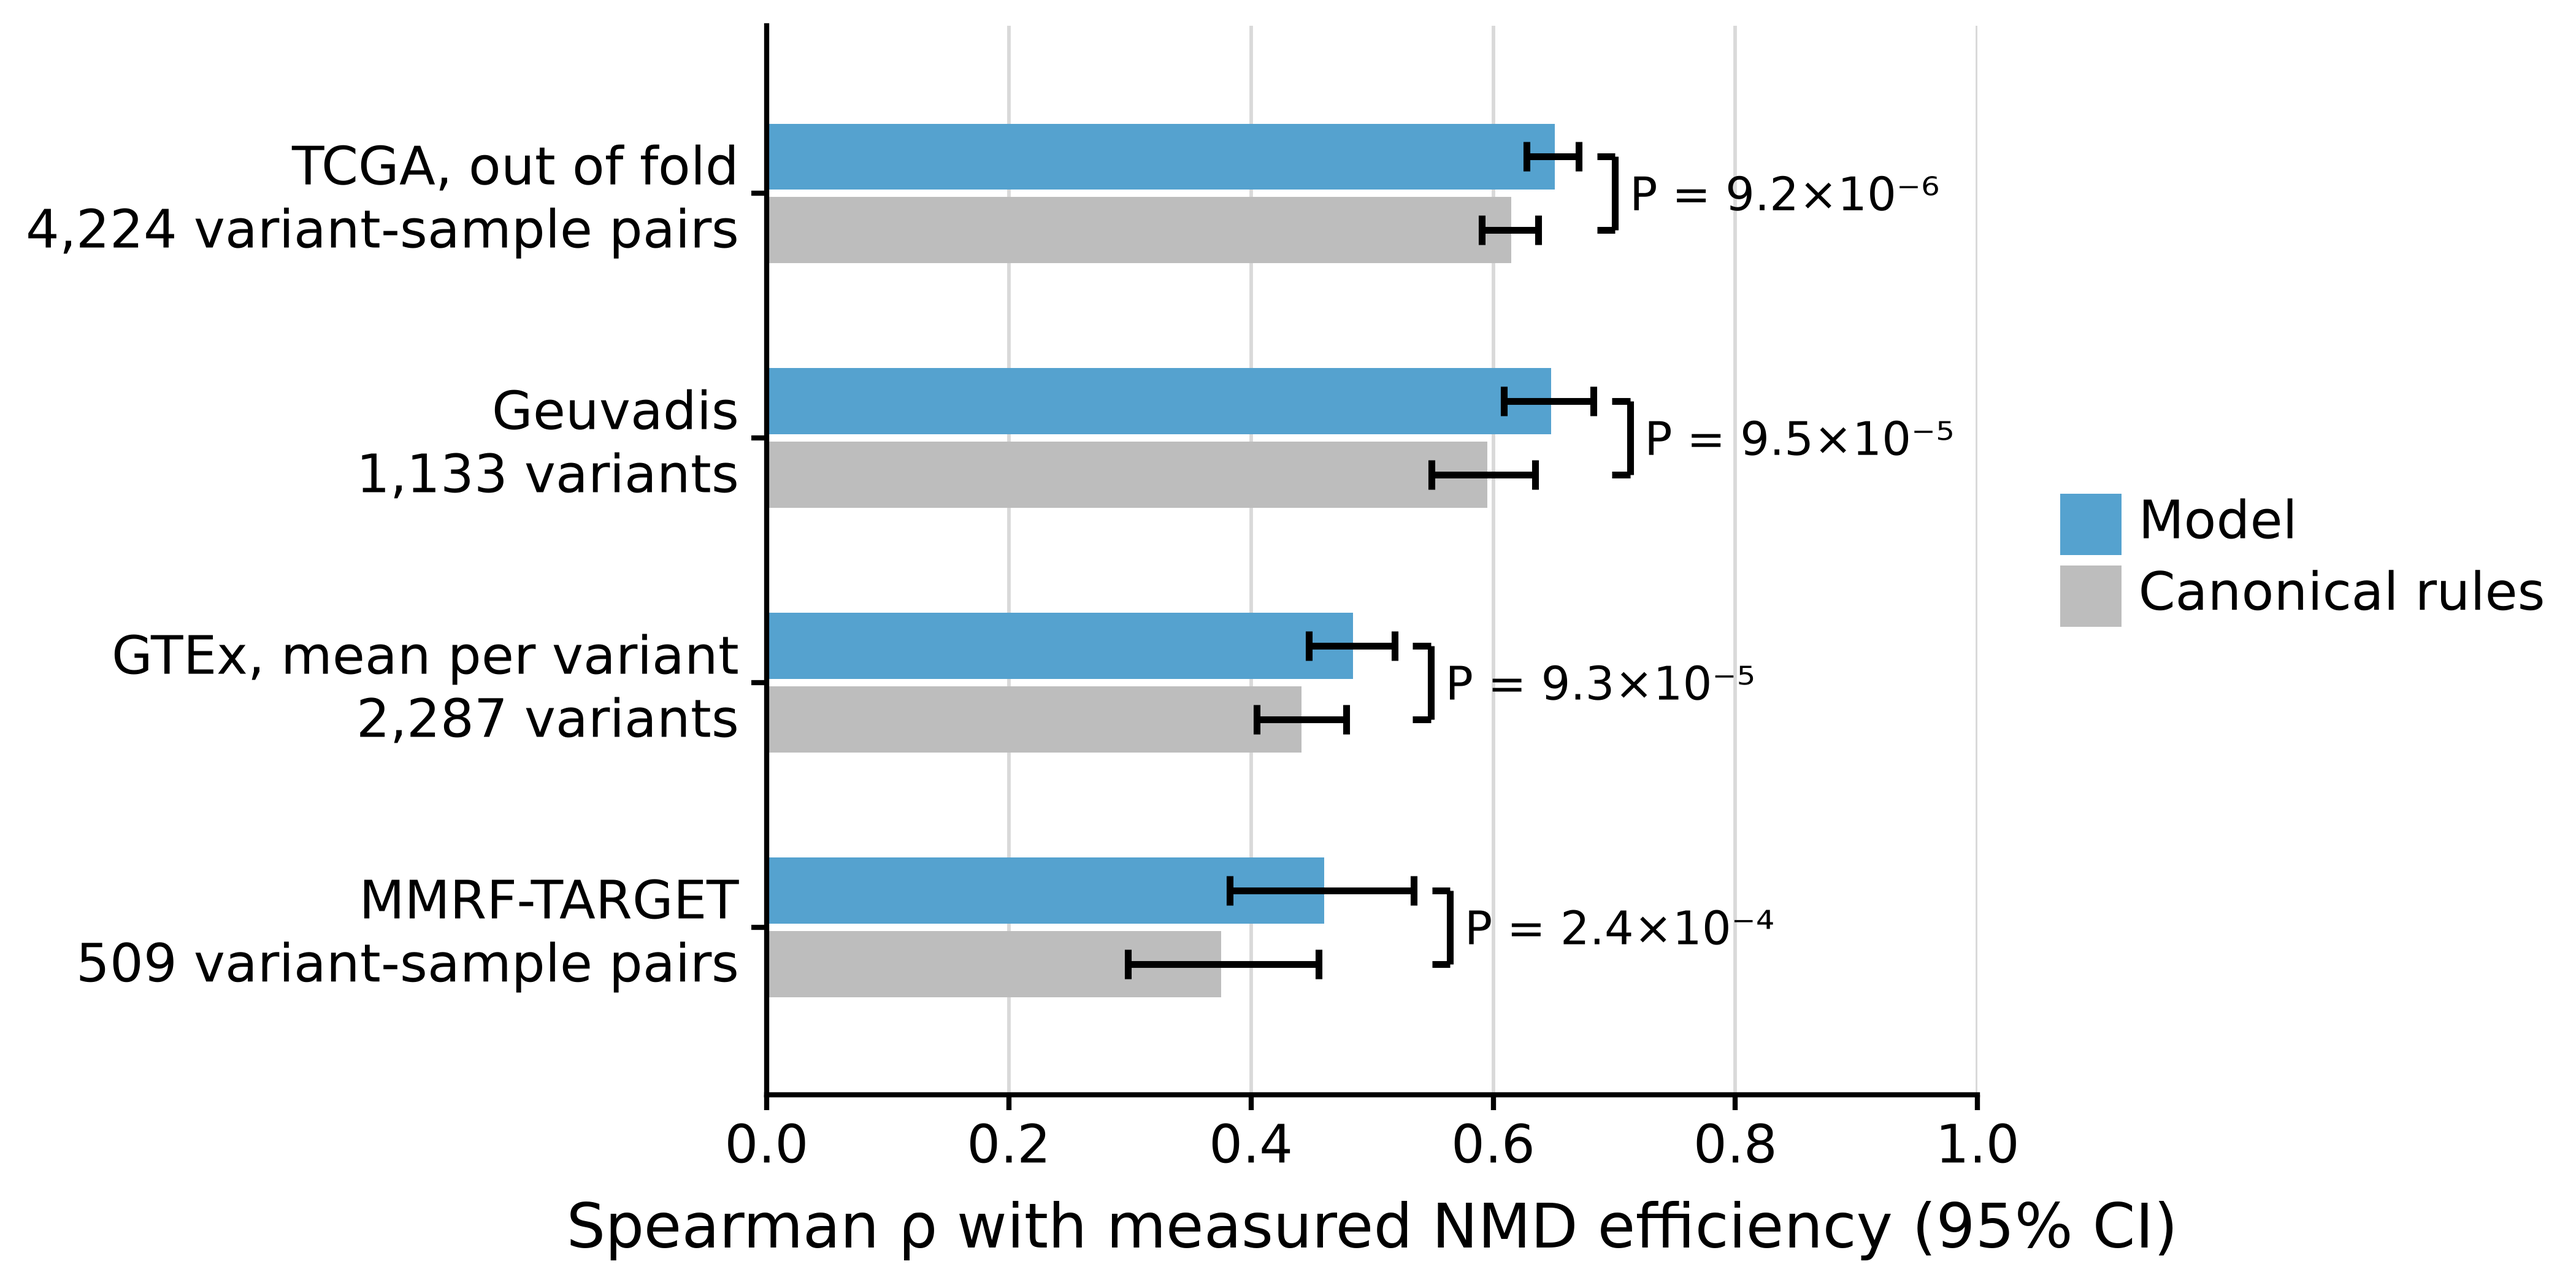
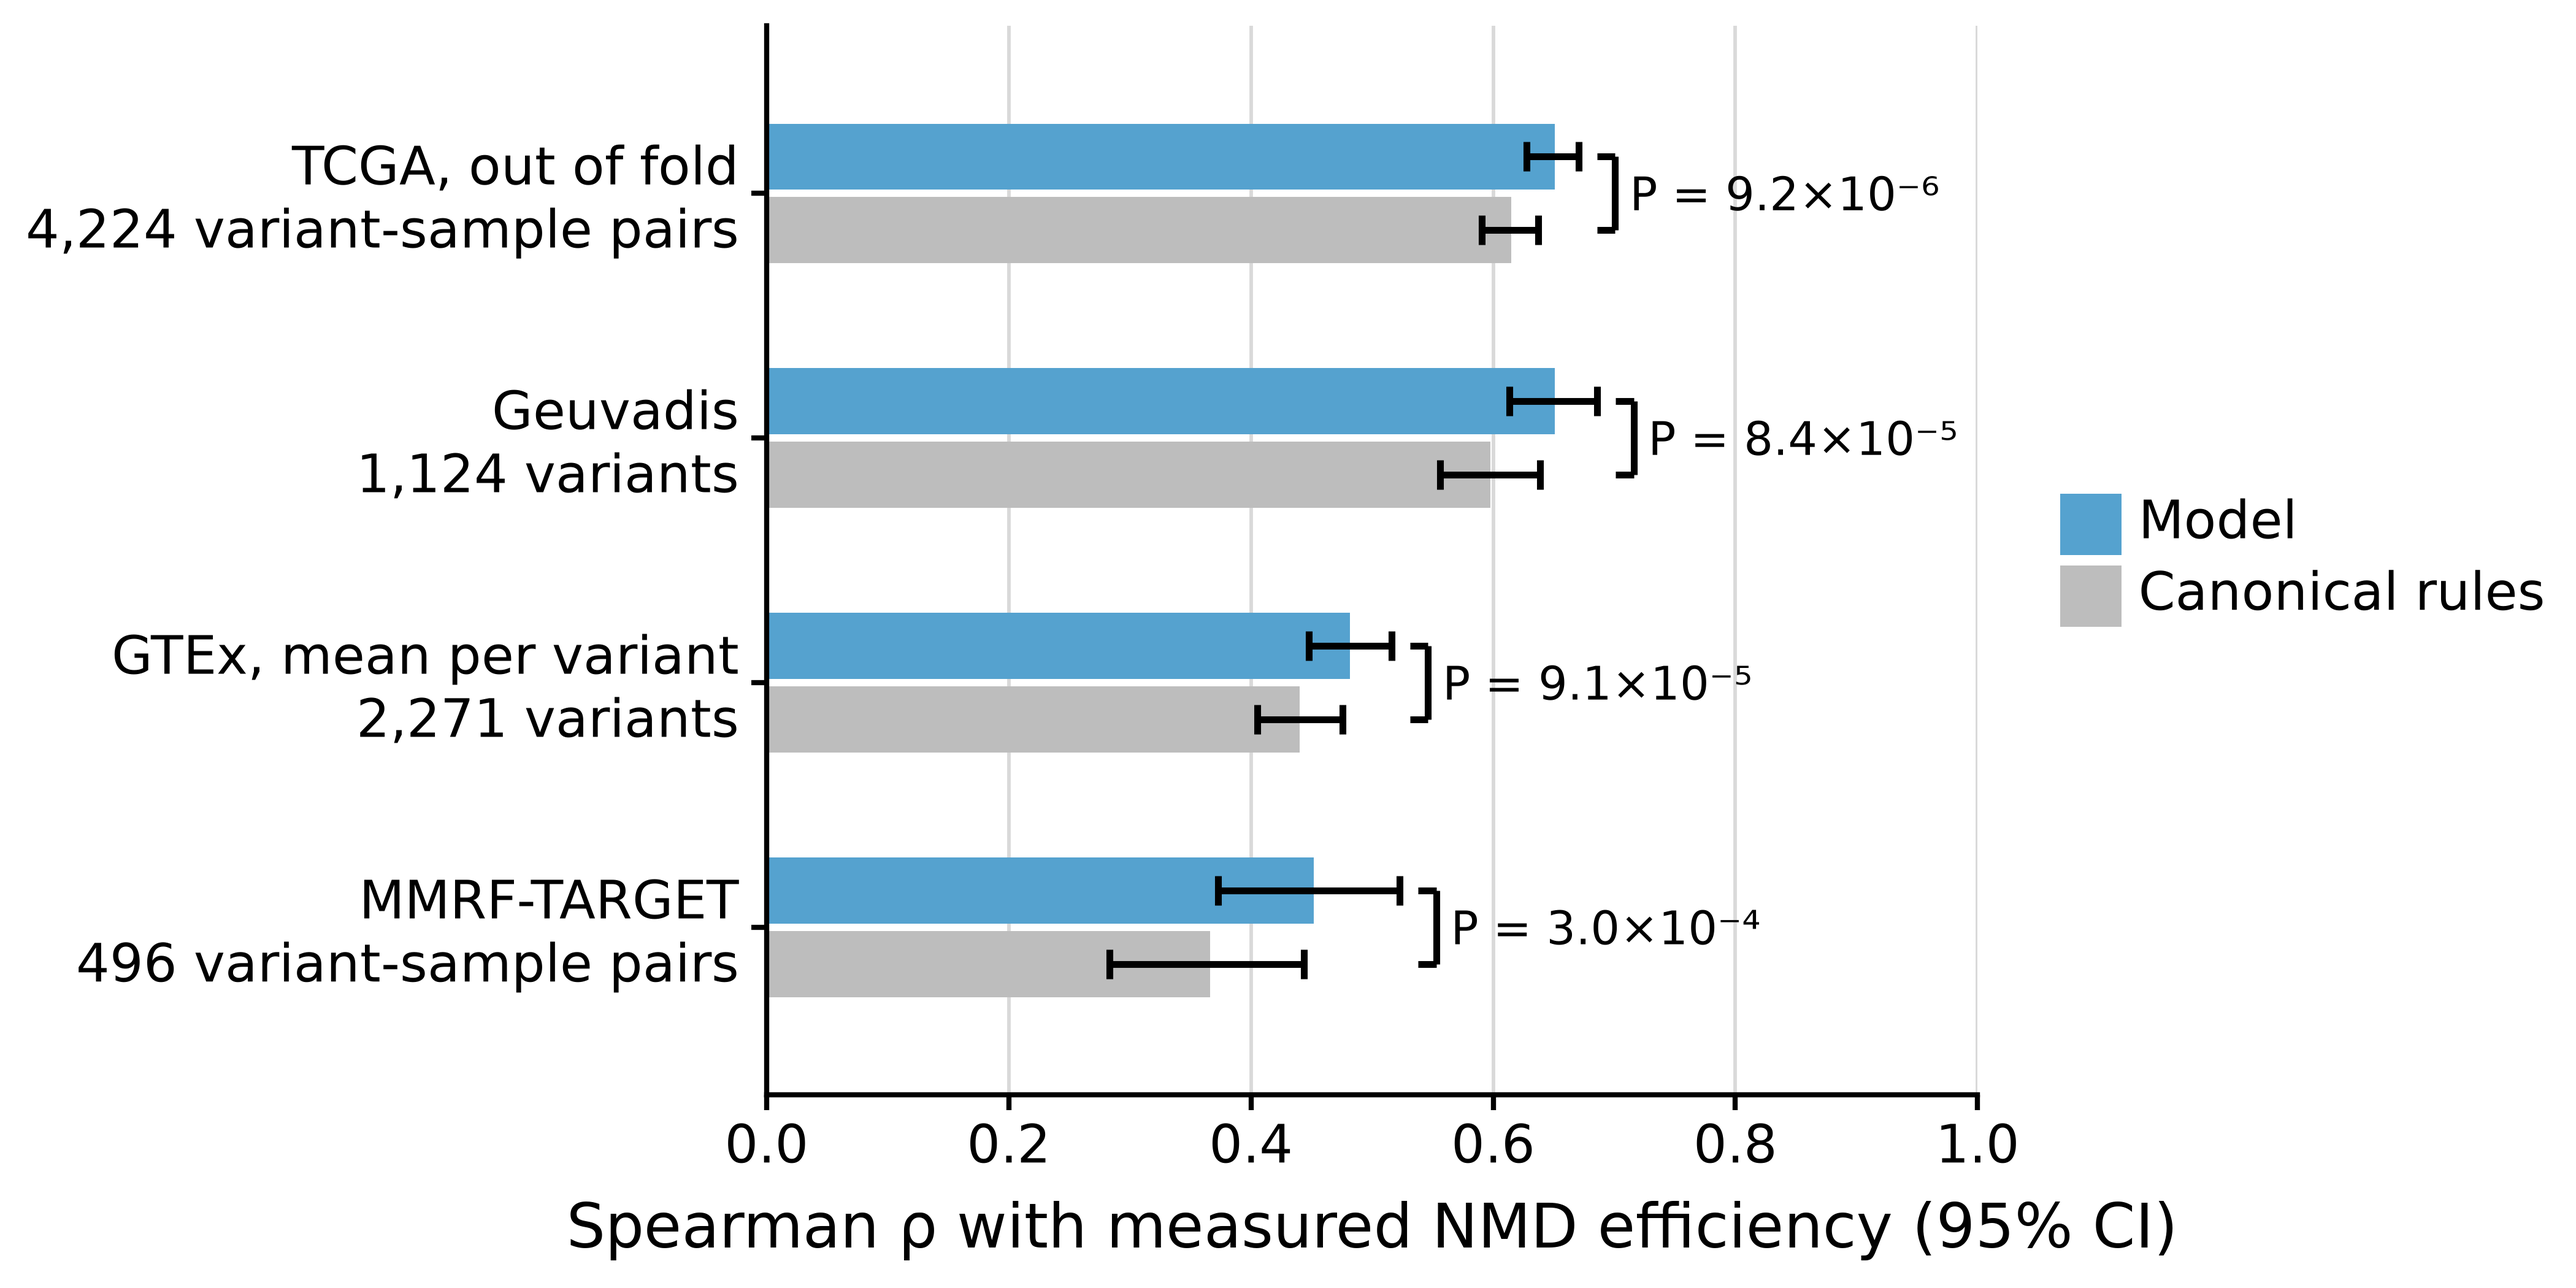
fix(benchmark): drop the validation measurements of the TCGA training pairs
The final model trains on all TCGA variant-sample pairs. The validation now
drops the Geuvadis, GTEx and MMRF-TARGET measurements whose variant-transcript
pair is in the TCGA training variant-sample pairs: 9 of 1135 Geuvadis
variants, 188 of 17816 GTEx variant-tissue pairs of 16 variants, and 13 of 556
MMRF-TARGET variant-sample pairs.

diff --git a/scripts/validate_model.py.py b/scripts/validate_model.py.py
@@ -26,7 +26,8 @@
 #
 # Steps of the validation:
 #
-# 1. Read the benchmark tables of BENCHMARK_DIR, except TCGA.
+# 1. Read the benchmark tables of BENCHMARK_DIR, except TCGA. Drop the measurements that share their variant-transcript
+#    pair with a TCGA training variant-sample pair, since the final model trained on all TCGA variant-sample pairs.
 # 2. Run nmd_scanner.annotate_variants on their unique variants. It adds the prediction of the model as
 #    nmd_efficiency_prediction. Join each measurement to the NMD-Scanner result of its variant-transcript pair.
 # 3. Keep the measurements with nmd_efficiency_prediction_status "ok". Log the measurements that this drops, and why.
@@ -499,7 +500,21 @@ save_figure(plot, "oob_error", 6, 4)
 # ## Validation
 
 # %%
-benchmarks = {name: pl.read_parquet(BENCHMARK_DIR / f"{name}.parquet") for name in DATASETS if name != "tcga"}
+benchmarks = {}
+for name in DATASETS:
+    if name == "tcga":
+        continue
+    table_df = pl.read_parquet(BENCHMARK_DIR / f"{name}.parquet")
+    seen_df = table_df.join(oof_df, on=KEY, how="semi")
+    logger.info(
+        "%s: dropped %d of %d measurements, which share %d variant-transcript pairs with the TCGA training"
+        " variant-sample pairs",
+        name,
+        len(seen_df),
+        len(table_df),
+        seen_df.select(KEY).n_unique(),
+    )
+    benchmarks[name] = table_df.join(oof_df, on=KEY, how="anti")
 variants_df = pl.concat([table_df.select(VARIANT_COLUMNS) for table_df in benchmarks.values()]).unique()
 fasta = Fasta(str(FASTA))
 results_df = annotate_variants(variants_df.to_pandas(), read_annotation(GFF3, fasta), fasta, sequences=False)
